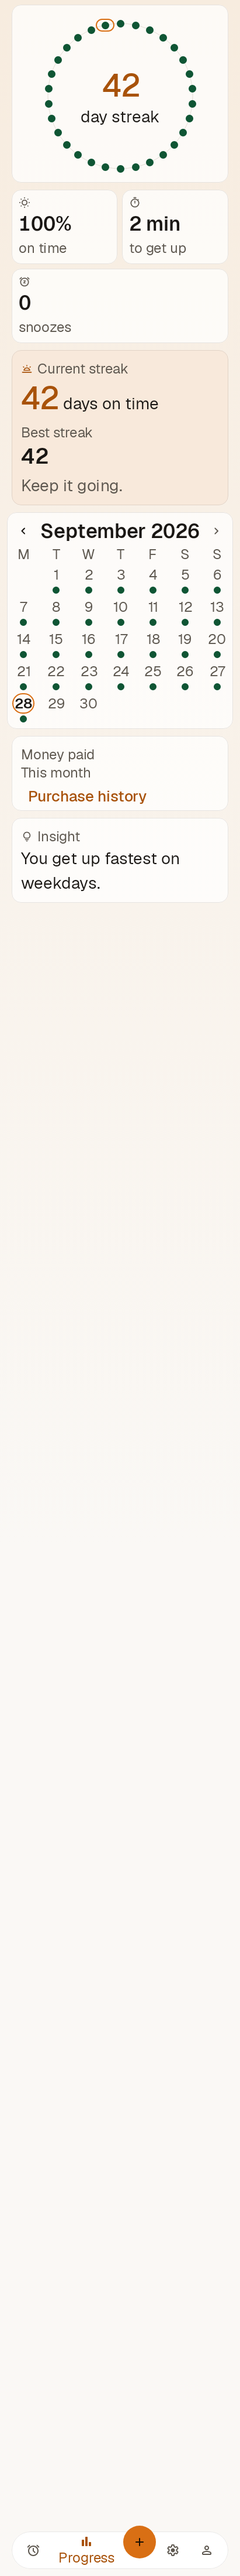
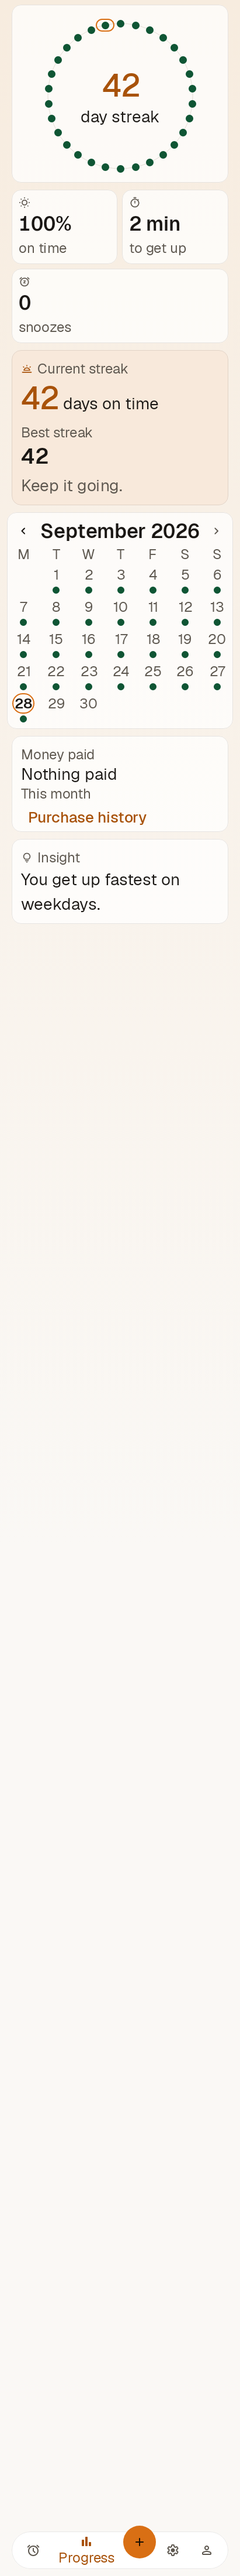
feat(6.5): review fixes, Progress baselines, states.md and spec

Changed region(s): [[0.0876, 0.2802, 0.4088, 0.3736], [0.4088, 0.2802, 0.6423, 0.3425]]

diff --git a/composeApp/src/commonTest/kotlin/com/yawnandpawn/app/ui/progress/ProgressViewModelTest.kt b/composeApp/src/commonTest/kotlin/com/yawnandpawn/app/ui/progress/ProgressViewModelTest.kt
@@ -19,8 +19,8 @@ import kotlinx.coroutines.Dispatchers
 import kotlinx.coroutines.ExperimentalCoroutinesApi
 import kotlinx.coroutines.launch
 import kotlinx.coroutines.test.TestScope
-import kotlinx.coroutines.test.advanceTimeBy
 import kotlinx.coroutines.test.UnconfinedTestDispatcher
+import kotlinx.coroutines.test.advanceTimeBy
 import kotlinx.coroutines.test.resetMain
 import kotlinx.coroutines.test.runTest
 import kotlinx.coroutines.test.setMain
@@ -98,7 +98,14 @@ class ProgressViewModelTest {
             val viewModel = screen()
 
             assertEquals(ProgressStats(0, 0, onTime30Days = null, averageMinutesToUp = null, snoozes30Days = 0), viewModel.stats())
-            assertEquals(listOf(Outcome.Test, Outcome.Skipped), viewModel.now().ring.takeLast(2).map { it.outcome })
+            assertEquals(
+                listOf(Outcome.Test, Outcome.Skipped),
+                viewModel
+                    .now()
+                    .ring
+                    .takeLast(2)
+                    .map { it.outcome },
+            )
         }
 
     @Test
@@ -198,13 +205,34 @@ class ProgressViewModelTest {
             clock.set(DEFAULT_FAKE_INSTANT + 1.days - 5.hours)
             timeChanges.emit()
 
-            assertEquals(day(1), viewModel.now().ring.last().date)
-            assertEquals(day(-28), viewModel.now().ring.first().date)
+            assertEquals(
+                day(1),
+                viewModel
+                    .now()
+                    .ring
+                    .last()
+                    .date,
+            )
+            assertEquals(
+                day(-28),
+                viewModel
+                    .now()
+                    .ring
+                    .first()
+                    .date,
+            )
             assertNull(viewModel.now().selection)
             // Back to the day before (the clock was set back): the dropped chip does not come back.
             clock.set(DEFAULT_FAKE_INSTANT)
             timeChanges.emit()
-            assertEquals(FixtureToday, viewModel.now().ring.last().date)
+            assertEquals(
+                FixtureToday,
+                viewModel
+                    .now()
+                    .ring
+                    .last()
+                    .date,
+            )
             assertNull(viewModel.now().selection)
         }
 

diff --git a/androidApp/src/test/kotlin/com/yawnandpawn/app/ui/ProgressSemanticsTest.kt b/androidApp/src/test/kotlin/com/yawnandpawn/app/ui/ProgressSemanticsTest.kt
@@ -151,11 +151,21 @@ class ProgressSemanticsTest {
                         .onAllNodes(SemanticsMatcher.keyIsDefined(SemanticsActions.GetTextLayoutResult), useUnmergedTree = true)
                         .fetchSemanticsNodes()
                 assertTrue(texts.isNotEmpty())
-                texts.forEach { node ->
-                    val results = mutableListOf<TextLayoutResult>()
-                    node.config[SemanticsActions.GetTextLayoutResult].action?.invoke(results)
-                    results.forEach { layout -> assertTrue(!layout.hasVisualOverflow, "'${layout.layoutInput.text}' is cut off") }
-                }
+                val cut =
+                    texts.flatMap { node ->
+                        val results = mutableListOf<TextLayoutResult>()
+                        node.config[SemanticsActions.GetTextLayoutResult].action?.invoke(results)
+                        // Cut off: taller than its room, or as wide as its room with text left over. A centred one-line
+                        // text (the calendar's day numbers) reports a width overflow while it fits with room to spare.
+                        results
+                            .filter {
+                                it.didOverflowHeight ||
+                                    (it.didOverflowWidth && it.size.width >= it.layoutInput.constraints.maxWidth)
+                            }.map {
+                                "'${it.layoutInput.text}' ${it.size} in ${it.layoutInput.constraints}"
+                            }
+                    }
+                assertEquals(emptyList(), cut, "cut off in ${state.stats}")
             }
         }
 

diff --git a/composeApp/src/commonTest/kotlin/com/yawnandpawn/app/ui/progress/ProgressMappingTest.kt b/composeApp/src/commonTest/kotlin/com/yawnandpawn/app/ui/progress/ProgressMappingTest.kt
@@ -58,7 +58,10 @@ class ProgressMappingTest {
     fun `a ring chip stays with the day's current outcome, and goes when its day has none`() {
         val chip = DaySelection(FixtureToday, Outcome.OnTime, inCalendar = false)
 
-        assertEquals(chip.copy(outcome = Outcome.Snoozed), stateOf(morning(FixtureToday, SessionOutcome.Snoozed), selection = chip).selection)
+        assertEquals(
+            chip.copy(outcome = Outcome.Snoozed),
+            stateOf(morning(FixtureToday, SessionOutcome.Snoozed), selection = chip).selection,
+        )
         assertNull(stateOf(morning(day(-1)), selection = chip).selection)
         assertNull(stateOf(morning(FixtureToday), selection = chip.copy(date = day(-30))).selection)
     }

diff --git a/composeApp/src/commonMain/kotlin/com/yawnandpawn/app/ui/progress/ProgressMapping.kt b/composeApp/src/commonMain/kotlin/com/yawnandpawn/app/ui/progress/ProgressMapping.kt
@@ -82,9 +82,9 @@ internal fun keptSelection(
     selection: DaySelection?,
     ring: List<RingDay>,
     calendar: CalendarMonth?,
-): DaySelection? {
-    if (selection == null) return null
-    if (selection.inCalendar) return selection.takeIf { calendar != null }
-    val outcome = ring.firstOrNull { it.date == selection.date }?.outcome ?: return null
-    return selection.copy(outcome = outcome)
-}
+): DaySelection? =
+    when {
+        selection == null -> null
+        selection.inCalendar -> selection.takeIf { calendar != null }
+        else -> ring.firstOrNull { it.date == selection.date }?.outcome?.let { selection.copy(outcome = it) }
+    }

diff --git a/composeApp/src/commonMain/kotlin/com/yawnandpawn/app/ui/progress/ProgressLoadStates.kt b/composeApp/src/commonMain/kotlin/com/yawnandpawn/app/ui/progress/ProgressLoadStates.kt
@@ -65,7 +65,9 @@ internal fun ProgressSkeleton() {
 internal fun LoadFailed(onRetry: () -> Unit) {
     val spacing = PpsTheme.spacing
     GroupCard {
-        Column(modifier = Modifier.fillMaxWidth().padding(start = spacing.cardPadding, end = spacing.cardPadding, top = spacing.cardPadding)) {
+        Column(
+            modifier = Modifier.fillMaxWidth().padding(start = spacing.cardPadding, end = spacing.cardPadding, top = spacing.cardPadding),
+        ) {
             // Announced when loading turns into the failure.
             Text(
                 text = stringResource(Res.string.progress_load_failed),

diff --git a/composeApp/src/commonMain/kotlin/com/yawnandpawn/app/ui/progress/ProgressViewModel.kt b/composeApp/src/commonMain/kotlin/com/yawnandpawn/app/ui/progress/ProgressViewModel.kt
@@ -63,7 +63,9 @@ class ProgressViewModel(
     fun onIntent(intent: ProgressIntent) {
         when (intent) {
             is ProgressIntent.DaySelected -> selection.value = intent.selection
+
             ProgressIntent.RetryLoad -> loads.update { it + 1 }
+
             // The route opens Day detail and keeps the chip (it is still there after Back); Purchase history is the
             // route's too. The calendar's months page in Story 6.6.
             is ProgressIntent.DayTapped,

diff --git a/_bmad-output/implementation-artifacts/spec-6-5-progress-screen.md b/_bmad-output/implementation-artifacts/spec-6-5-progress-screen.md
@@ -2,8 +2,8 @@
 title: 'Story 6.5: Progress screen with the 30-morning ring, stat tiles and money'
 type: 'feature'
 created: '2026-10-26'
-status: 'ready-for-dev'
-baseline_commit: '0d85be9e95e8072ac9762db78b628814435f55d7'
+status: 'review'
+baseline_commit: '05e4a9e6'
 route: 'dispatch'
 story_key: '6-5-progress-screen-with-the-30-morning-ring-stat-tiles-and-money'
 old_story_key: '6-5-progress-screen-with-stat-tiles-snoozes-chart-and-money'
@@ -438,16 +438,16 @@ fakes).
 
 ## pps-design Done checklist
 
-- [ ] Only tokens from `DESIGN.md` used (no raw hex, no new radii, no new font sizes).
-- [ ] Light, Dark (and Sunrise where relevant) checked with previews / screenshots.
-- [ ] Every colour pair used is in the `DESIGN.md` contrast table.
-- [ ] Touch targets ≥ 48 dp; wake actions ≥ 64 dp.
-- [ ] Works at 200% font scale and with TalkBack; outcome glyphs present.
-- [ ] Reduced-motion path works.
-- [ ] Copy matches `EXPERIENCE.md > Voice and Tone` (no em dashes, no filler, strings in resources).
-- [ ] Every state row in `EXPERIENCE.md > State Patterns` for this surface is handled.
-- [ ] "I'm up" is the most prominent wake action; snooze is visible, plain and priced. (Not applicable.)
-- [ ] Compose `@Preview`s for each state (light/dark/Sunrise, empty/error) exist; screenshot tests updated (Roborazzi).
+- [x] Only tokens from `DESIGN.md` used (no raw hex, no new radii, no new font sizes). detekt NoRaw* rules pass.
+- [x] Light, Dark (and Sunrise where relevant) checked with previews / screenshots. 27 Roborazzi baselines, checked by eye.
+- [x] Every colour pair used is in the `DESIGN.md` contrast table (`text`, `text-secondary`, `surface-variant` on glass; nothing new).
+- [x] Touch targets ≥ 48 dp (`assertControlsLabelledWithRoles` on the chip state); no wake actions here.
+- [x] Works at 200% font scale and with TalkBack; outcome glyphs present (`ProgressSemanticsTest`).
+- [x] Reduced-motion path works (`ProgressMotion` unchanged; the entry plays once per visit to the tab).
+- [x] Copy matches `EXPERIENCE.md > Voice and Tone` (no em dashes, no filler, strings in resources). `CopyRulesTest` passes; five new strings listed for v2.
+- [x] Every state row in `EXPERIENCE.md > State Patterns` for this surface is handled (empty, Test only, data, loading, slow, failure).
+- [x] "I'm up" is the most prominent wake action; snooze is visible, plain and priced. (Not applicable.)
+- [x] Compose `@Preview`s for each state (light/dark/Sunrise, empty/error) exist; screenshot tests updated (Roborazzi).
 
 ## Verification
 
@@ -491,6 +491,22 @@ Use JDK 17 and `--no-daemon --max-workers=2`, targeted runs only.
 `progress_percent` is deleted (the percent goes through `formatPercent`).
 
 ## Review Triage Log
+
+One combined reviewer (adversarial, edge cases, spec compliance), read only, 2026-10-26: 3 HIGH, 1 MEDIUM, 4 LOW.
+
+| ID | Finding | Decision |
+|---|---|---|
+| H1 | `Round2TapThroughTest` looked up Day detail's tile by its text "3"; the tile is now one stop with a content description | Fixed: it finds "rings, 3" |
+| H2 | The ring-centre semantics test matched "12" twice (centre and streak card) and never checked the count-up | Fixed: matches the centre's description only, and checks it 200 ms into the count-up with the clock paused |
+| H3 | `states.md` not regenerated after the title changes | Fixed: regenerated with `PREVIEW_WRITE_STATES=true` |
+| M1 | Under `WhileSubscribed(5_000)`, back on Progress after more than 5 s away, `onStart` emitted loading again: a blank frame, lost scroll and a replayed entry | Fixed: loading is the initial value and follows "Try again" only; a restart keeps the last screen until the new snapshot. New ViewModel test |
+| L1 | The entry animation replayed on every Back from Purchase history | Fixed: a saveable "entered" flag in `ProgressContent` shows the final state at once on return (`ProgressMotion` unchanged) |
+| L2 | The load failure was not announced | Fixed: the failure text is a polite live region |
+| L3 | The 200% clipping check covered one state | Fixed: empty, Test only, typical and two currencies |
+| L4 | Preview baselines may be stale (tabular figures, "Nothing paid") | Checked by running `PreviewScreenshotTest` in verify mode; re-recorded only what differed (see the hand-off) |
+
+Also changed after the first recording: the Progress screenshots use a 411 x 1500 dp window (2800 dp at 200%) instead of
+891 dp, so Money paid and Insight are in the picture (two currencies would otherwise not show).
 
 ## Coordinator note (2026-10-26): currency separator
 Several currencies are always joined with " + ", using the existing `TOTALS_SEPARATOR` and EXPERIENCE.md "Money, mixed currencies", and sorted by currency code. For example: "€3.27 + $2.18 paid this week". Do not add a " · " variant. If a sorted helper is needed, the first story to land adds `formatPerCurrency` with " + ", and the others reuse it.

diff --git a/docs/design-preview/states.md b/docs/design-preview/states.md
@@ -84,10 +84,10 @@ adb shell am start -S -n com.yawnandpawn.app/.debug.preview.PreviewActivity --es
 
 | Id | Screen | State |
 |---|---|---|
-| `tap-progress` | Tap through | Tap through Progress: ring, chart, calendar, day detail, purchase history |
+| `tap-progress` | Tap through | Tap through Progress: ring, calendar, day detail, purchase history |
 | `tap-settings` | Tap through | Tap through Settings: sub-screens, reliability checklist |
 | `tap-you` | Tap through | Tap through You: purchase history, payments, delete dialog |
-| `progress-full` | Progress | Ring of 30 mornings, tiles, week chart, streak, calendar, money, insight |
+| `progress-full` | Progress | Ring of 30 mornings, tiles, streak, calendar, money, insight |
 | `progress-dot-chip` | Progress | A ring dot tapped: its label chip |
 | `progress-calendar-chip` | Progress | A calendar day tapped: its label chip |
 | `progress-empty` | Progress | Empty ring |
